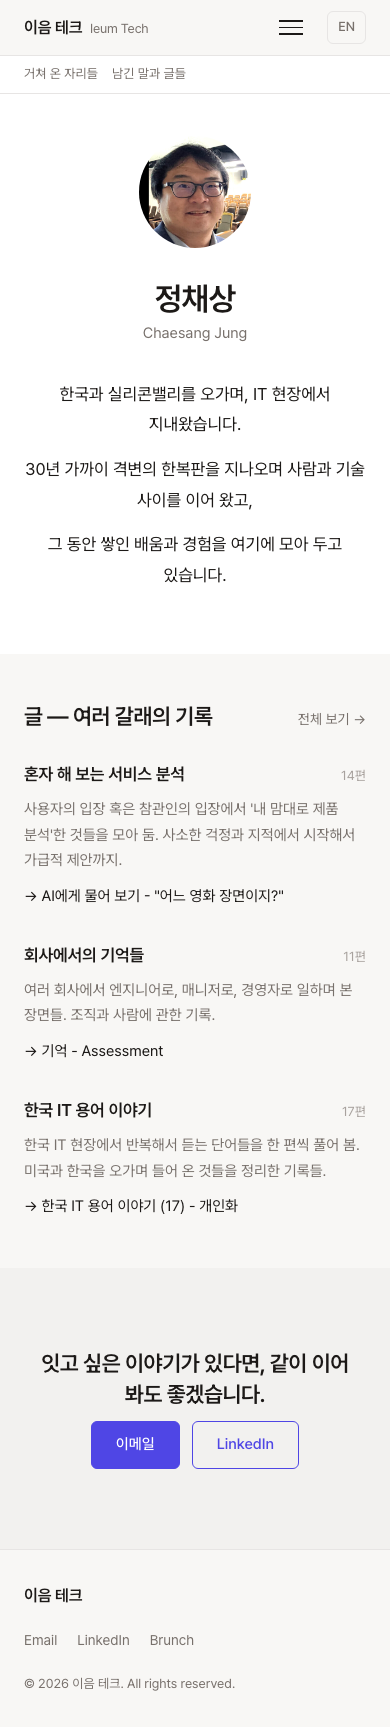
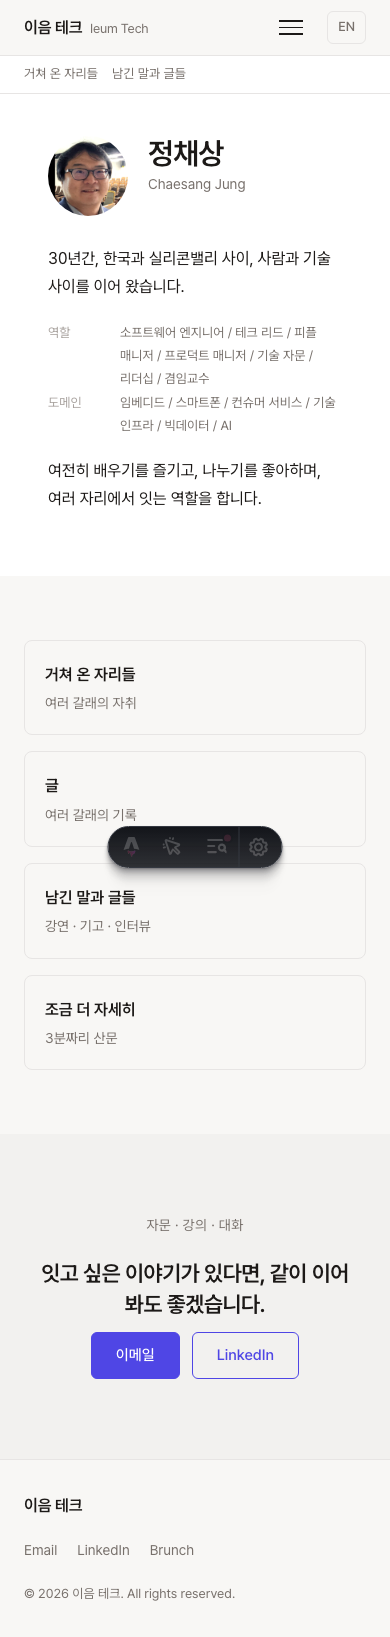
Fix Hero alignment: remove forced text-align center from global .hero
Home v2 design is left-aligned, but global.css .hero had text-align: center
that overrode the page-level override due to CSS cascade order. Removed
the forced center from .hero base — pages can set their own alignment.
Also applies earlier Header.astro subnav alignment fix.

diff --git a/src/styles/global.css b/src/styles/global.css
@@ -256,7 +256,6 @@ section h2 {
 .hero {
   background: var(--color-surface);
   padding: var(--space-12) var(--container-padding) var(--space-11);
-  text-align: center;
 }
 
 .hero-inner { max-width: var(--container-max); margin: 0 auto; }
